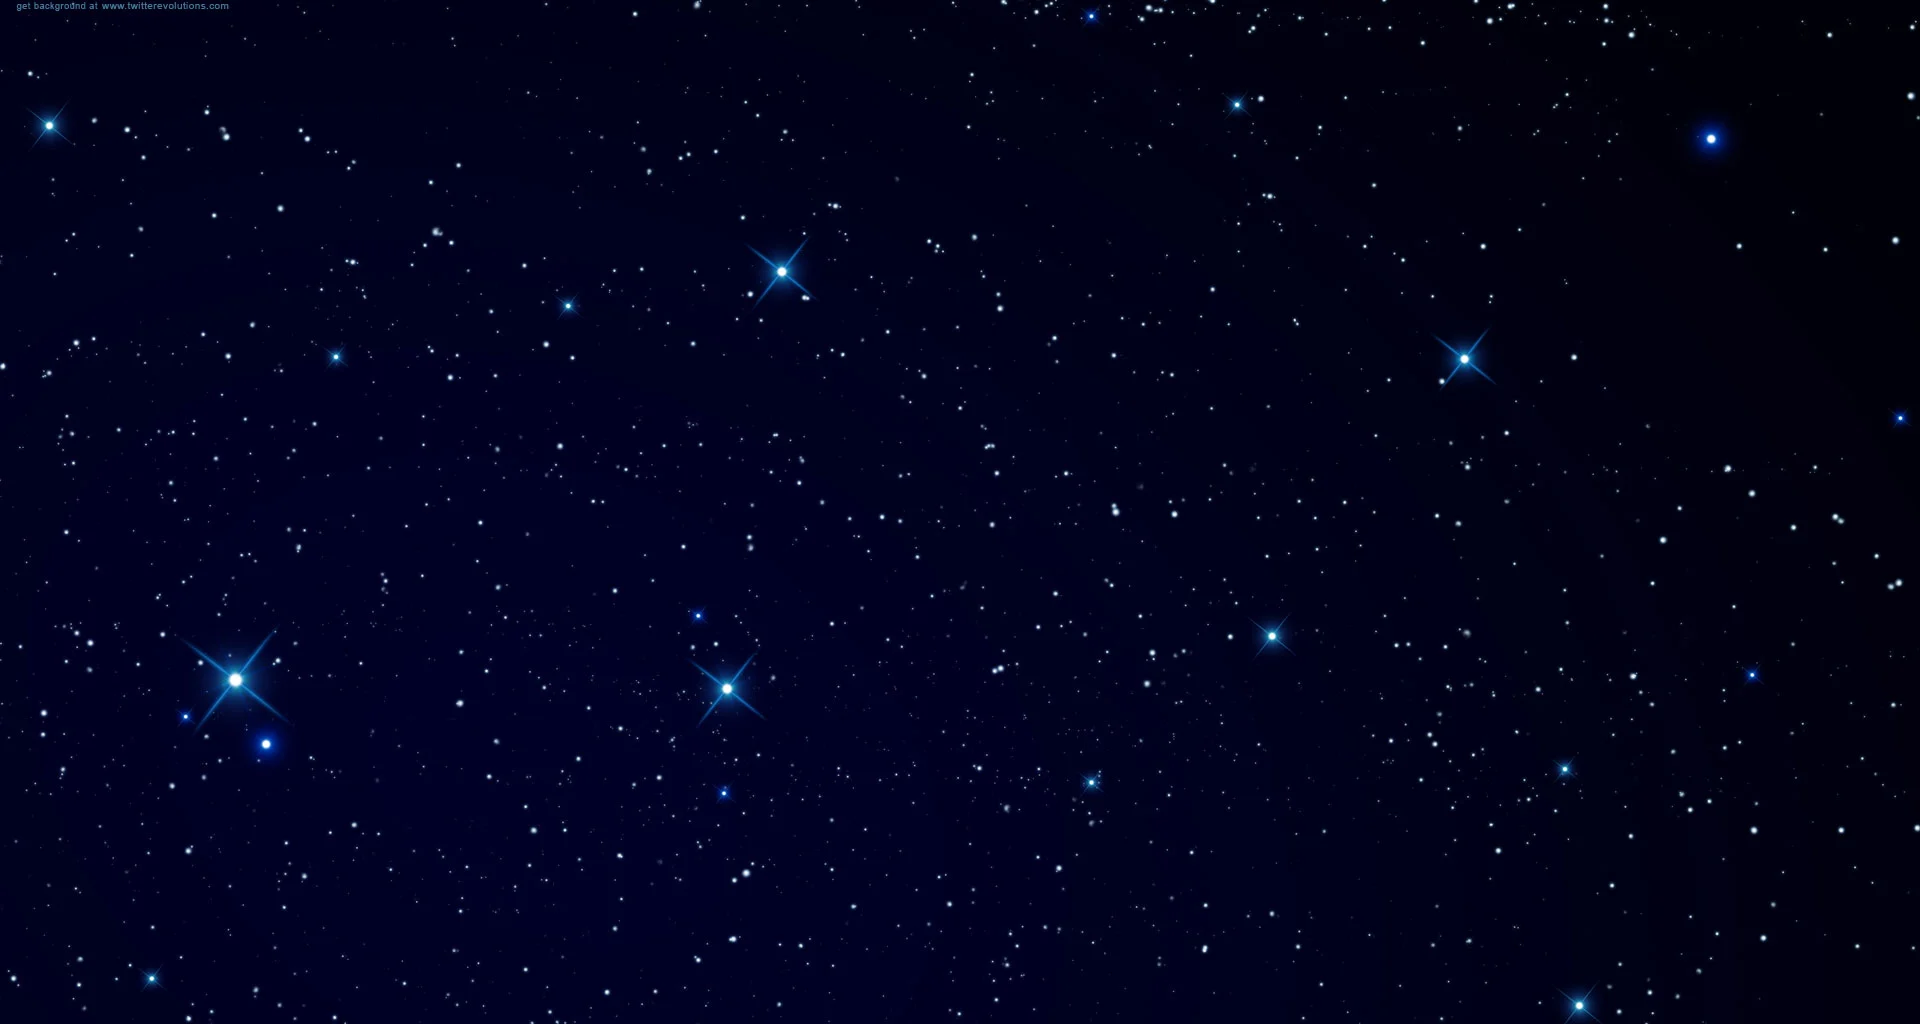
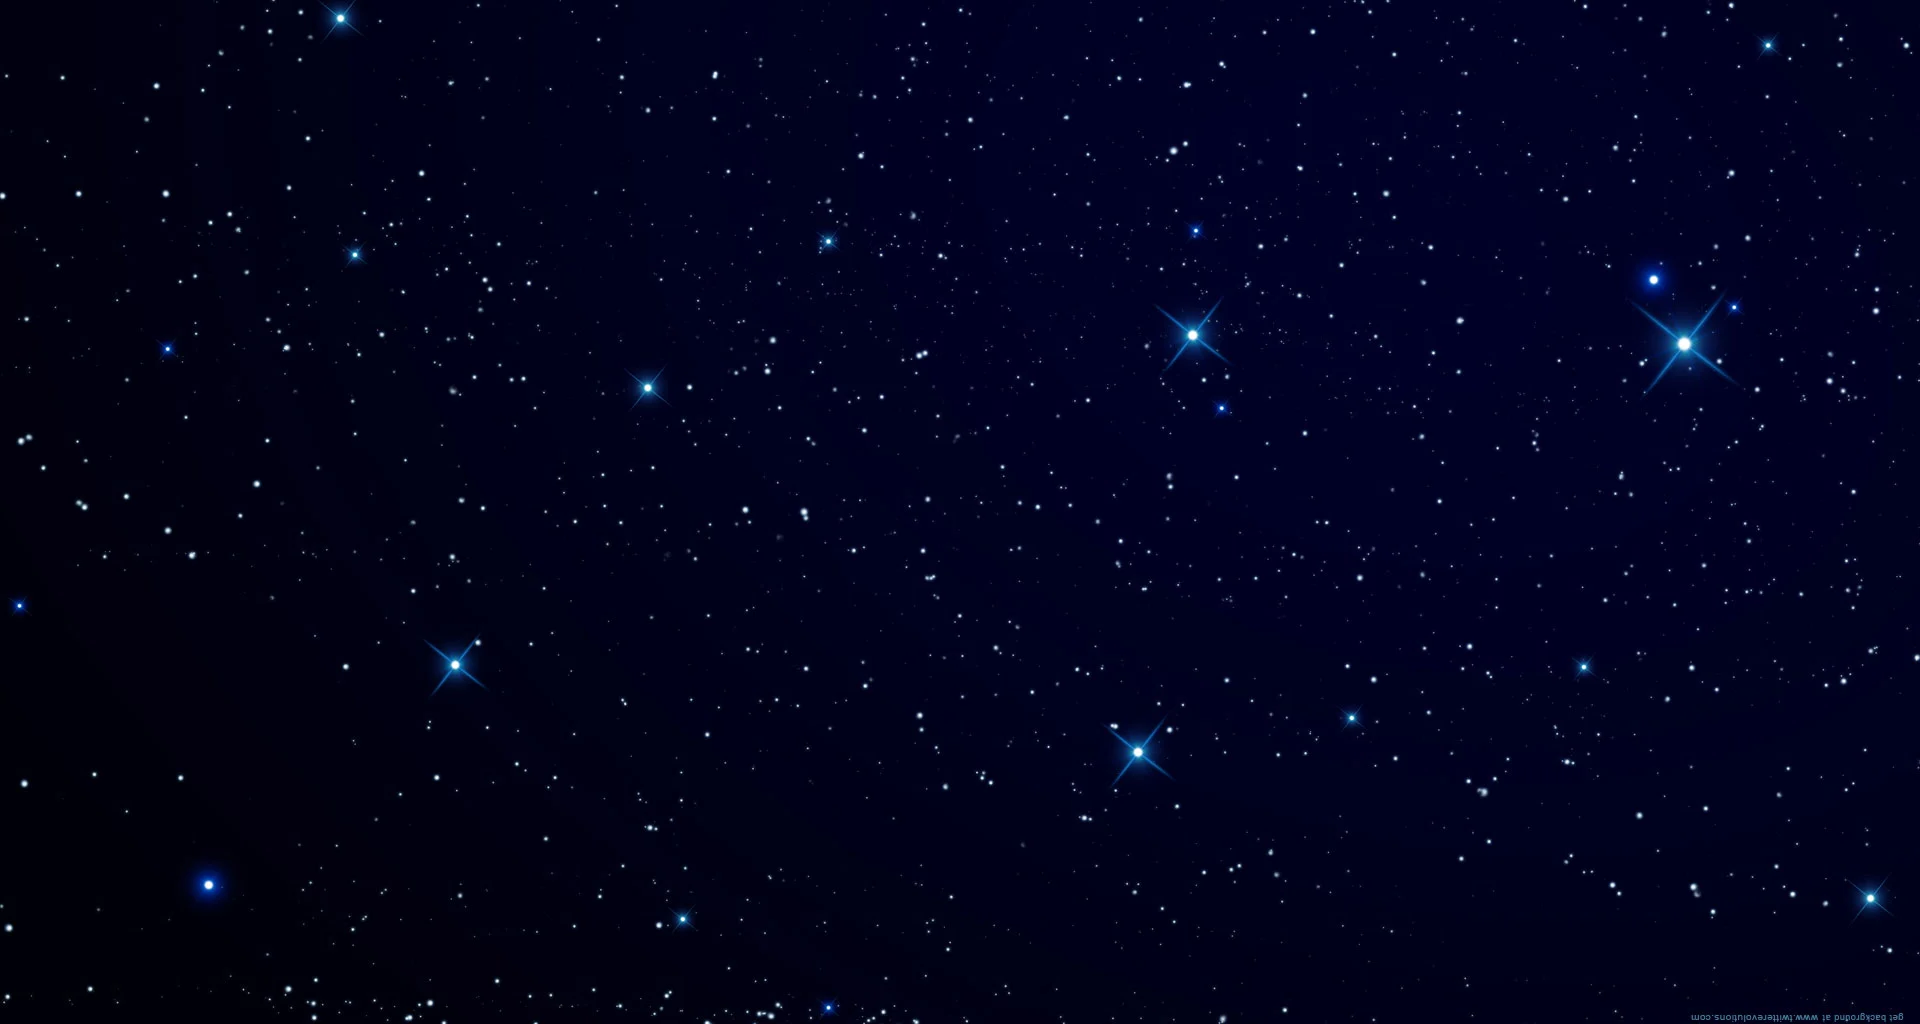
Reversed the background so that the stars are on the right.

diff --git a/dist/index.html b/dist/index.html
@@ -5,8 +5,8 @@
     <link rel="icon" type="image/svg+xml" href="/ijoonc-portfolio/assets/logo-e15f608d.svg" />
     <meta name="viewport" content="width=device-width, initial-scale=1.0" />
     <title>Isaac's Porfolio</title>
-    <script type="module" crossorigin src="/ijoonc-portfolio/assets/index-5c2d0c0a.js"></script>
-    <link rel="stylesheet" href="/ijoonc-portfolio/assets/index-c235c846.css">
+    <script type="module" crossorigin src="/ijoonc-portfolio/assets/index-7ade3f4f.js"></script>
+    <link rel="stylesheet" href="/ijoonc-portfolio/assets/index-859e3de8.css">
   </head>
   <body>
     <div id="root"></div>
